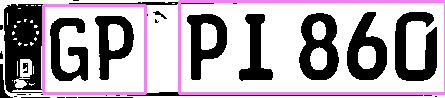
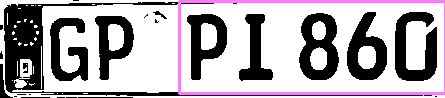
bruh

Changed region(s): [[0.0876, 0.0306, 0.3506, 0.9796]]

diff --git a/src/license_plate_recognition/scripts/final/ocr_licence_plate.py b/src/license_plate_recognition/scripts/final/ocr_licence_plate.py
@@ -100,15 +100,12 @@ def read_text(images):
         counter = 0
         # Iterate through the OCR results and draw bounding boxes on the detected text
         for (bbox, text, prob) in result:
-            if counter > 0:
-                (top_left, top_right, bottom_right, bottom_left) = bbox
-                top_left = tuple(map(int, top_left))
-                bottom_right = tuple(map(int, bottom_right))
-
-                prob_text = filter_uppercase_and_numbers(text)
-                print(f"Text: {prob_text}, Probability: {prob}")
-                cv2.rectangle(image, top_left, bottom_right, (238, 130, 238), 2)
-            counter+=1
+            (top_left, top_right, bottom_right, bottom_left) = bbox
+            top_left = tuple(map(int, top_left))
+            bottom_right = tuple(map(int, bottom_right))
+            prob_text = filter_uppercase_and_numbers(text)
+            print(f"Text: {prob_text}, Probability: {prob}")
+            cv2.rectangle(image, top_left, bottom_right, (238, 130, 238), 2)
 
 
             """      
